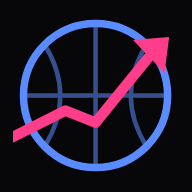
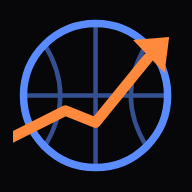
Second brand colour: back to the original orange (replaces pink)
Claude-Session: https://claude.ai/code/session_01JWQRVUUckvJmykKpyPb8i6

Changed region(s): [[0.0625, 0.1875, 0.9062, 0.75]]

diff --git a/index.html b/index.html
@@ -25,7 +25,7 @@
     --cds-surface-popover: #0E0E13; --cds-border: #35353F; --cds-shadow-popover: 0 8px 24px rgba(0,0,0,.4); --cds-text-secondary: #A6A6B2;
     --cds-chart-grid: #22222A; --cds-chart-muted: #6E6E7A; --cds-chart-reference: #4A4A55;
     --color-fg: #F2F2F5; --color-fg-muted: #A6A6B2; --color-bg: #0B0B10; --color-panel: #141419; --color-border-line: #25252D;
-    --color-ok: #5B8CFF; --color-bad: #FF5C9E; --color-warn: #FFA8CB;
+    --color-ok: #5B8CFF; --color-bad: #FF9A57; --color-warn: #FFC79E;
     color-scheme: dark;
   }
   html, body { margin: 0; background: #050507; color: #F2F2F5; }
@@ -61,7 +61,7 @@ window.dash = (() => {
   return {
     data, calc: (id, o) => { calcs[id] = o; }, loader: () => {},
     onData: (fn) => { subs.push(fn); try { fn(); } catch (e) { console.error(e); } },
-    colors: ['#5B8CFF', '#FF3D8B', '#4FD1C5', '#F6C343', '#C792EA', '#FF6B9A', '#9AE66E', '#B0BEC5'],
+    colors: ['#5B8CFF', '#FF8A3D', '#4FD1C5', '#F6C343', '#C792EA', '#FF6B9A', '#9AE66E', '#B0BEC5'],
     setLink: (n) => { try { history.replaceState(null, '', '#' + n); } catch (e) {} },
     params: () => ({}), setParams: () => {}, resetParams: () => {}, refresh: load
   };
@@ -103,8 +103,8 @@ window.dash = (() => {
   .cp-news { display: flex; flex-direction: column; gap: 6px; }
   .cp-news-i { display: grid; grid-template-columns: 3.4rem 1fr; gap: 10px; padding: 8px 12px; border-radius: 8px; background: rgba(255,255,255,.04); font-size: .92rem; }
   .cp-news-i time { color: var(--color-fg-muted); font-variant-numeric: tabular-nums; }
-  .cp-news-i .imp { color: #FF3D8B; margin-top: 2px; }
-  .cp-news-i.bad b { color: #FF3D8B; }
+  .cp-news-i .imp { color: #FF8A3D; margin-top: 2px; }
+  .cp-news-i.bad b { color: #FF8A3D; }
   .mb-table tr.pass td { color: var(--color-fg-muted); }
   .mb-table .side { border-left: 1px solid var(--color-border-line); }
   .pill { display: inline-block; padding: 0 var(--cds-pad-sm); border-radius: 999px; border: 1px solid currentColor; font-size: var(--cds-font-size-caption); white-space: nowrap; }
@@ -161,9 +161,9 @@ window.dash = (() => {
 
   /* ===== A+B look: dark navy, orange accent, condensed caps headings; blue = value, orange = overpriced ===== */
   .mb { --color-fg: #F2F2F5; --color-fg-muted: #A6A6B2; --color-bg: #0B0B10; --color-panel: #141419; --color-border-line: #25252D;
-        --color-ok: #5B8CFF; --color-bad: #FF5C9E; --color-warn: #FFA8CB;
+        --color-ok: #5B8CFF; --color-bad: #FF9A57; --color-warn: #FFC79E;
         --cds-chart-grid: #22222A; --cds-chart-muted: #6E6E7A; --cds-chart-reference: #4A4A55;
-        --cp-accent: #5B8CFF; --cp-ink: #0B0B10; --cp-good-bg: #16234A; --cp-good-fg: #CFDCFF; --cp-bad-bg: #3A1226; --cp-bad-fg: #FFA8CB;
+        --cp-accent: #5B8CFF; --cp-ink: #0B0B10; --cp-good-bg: #16234A; --cp-good-fg: #CFDCFF; --cp-bad-bg: #3A2512; --cp-bad-fg: #FFC79E;
         --cp-head: var(--font-anthropic-sans);
         background: #0B0B10; color: var(--color-fg); border-radius: 18px; padding: 0 0 32px 0; gap: 28px; max-width: 1240px; }
   .mb a { color: #5B8CFF; }
@@ -267,7 +267,7 @@ window.dash = (() => {
   .cp-bs-price input { width: 5.2rem; font-weight: 700; }
   .cp-bs-price .cp-bs-txt { margin-left: 0; min-height: 38px; }
   .cp-bs-all { display: flex; align-items: center; gap: 10px; font-size: .85rem; color: #D0D0D8; }
-  .cp-bs-warn { font-size: .82rem; color: #FFA8CB; background: #3A1226; border-radius: 10px; padding: 8px 12px; }
+  .cp-bs-warn { font-size: .82rem; color: #FFC79E; background: #3A2512; border-radius: 10px; padding: 8px 12px; }
   .cp-bs-mult { display: flex; align-items: baseline; gap: 8px; font-size: .85rem; color: #A6A6B2; }
   .cp-bs-mult b { margin-left: auto; font-family: ui-monospace, SFMono-Regular, Menlo, Consolas, monospace; font-size: 1.4rem; color: #FFFFFF; }
   .cp-bs-foot { border-top: 1px solid #22222A; background: #0E0E13; padding: 10px 16px 14px; display: grid; grid-template-columns: 1fr auto; gap: 4px 12px; }
@@ -332,7 +332,7 @@ window.dash = (() => {
   .cp-bet-l { flex: 1; min-width: 0; }
   .cp-bet-p { font-weight: 700; font-size: .98rem; line-height: 1.25; overflow-wrap: anywhere; }
   .cp-bet-s { font-size: .78rem; color: #A6A6B2; margin-top: 2px; }
-  .cp-chip { display: inline-block; font-size: .7rem; font-weight: 700; padding: 1px 7px; border-radius: 999px; background: #2A1020; color: #FF8FBF; vertical-align: 1px; }
+  .cp-chip { display: inline-block; font-size: .7rem; font-weight: 700; padding: 1px 7px; border-radius: 999px; background: #2A2215; color: #FFB37F; vertical-align: 1px; }
   .cp-chip.dim { background: #22222A; color: #A6A6B2; }
   .cp-bet-o { text-align: right; line-height: 1.1; }
   .cp-bet-o b { display: block; font-family: ui-monospace, SFMono-Regular, Menlo, Consolas, monospace; font-size: 1.15rem; color: #FFFFFF; }
@@ -362,8 +362,8 @@ window.dash = (() => {
   .cp-toast { position: fixed; bottom: 24px; left: 50%; transform: translateX(-50%); background: var(--cp-accent); color: var(--cp-ink); font-weight: 700; padding: 10px 16px; border-radius: 10px; z-index: 5; }
   @media (max-width: 640px) { .mb-sec, .cp-panel > * { padding-inline: 14px; } .cp-multi { margin-inline: 14px; } .cp-bar { padding-inline: 14px; } .cp-upd { margin-left: 0; width: 100%; } .cp-nums { margin-left: 0; } .cp-pick { font-size: 1.3rem; } }
 
-  /* ===== neon court (5 Nov 2026, blue from 6 Nov): electric blue + pink on near-black, Unbounded headings ===== */
-  .mb { --cp-head: 'Unbounded', var(--font-anthropic-sans); --cp-pink: #FF3D8B; }
+  /* ===== neon court (5 Nov 2026, blue from 6 Nov): electric blue + orange on near-black, Unbounded headings ===== */
+  .mb { --cp-head: 'Unbounded', var(--font-anthropic-sans); --cp-pink: #FF8A3D; }
   .mb-h2, .cp-h { font-size: 1.3rem; letter-spacing: 0; font-weight: 800; }
   .cp-brand { font-size: 1.15rem; letter-spacing: 0; text-transform: uppercase; display: flex; align-items: center; flex-wrap: wrap; gap: 0; }
   .cp-brand b { color: var(--cp-accent); font-weight: inherit; }
@@ -374,12 +374,12 @@ window.dash = (() => {
   .cp-tab[aria-selected="true"] { color: var(--cp-accent); }
   .cp-tab, .cp-dsw button { text-transform: uppercase; letter-spacing: .04em; font-family: var(--cp-head); font-weight: 600; font-size: .8rem; }
   .cp-bs-bar { text-transform: none; }
-  .pill.best { color: var(--cp-accent); border-color: var(--cp-accent); font-weight: 700; } .pill.val { color: #FF3D8B; }
+  .pill.best { color: var(--cp-accent); border-color: var(--cp-accent); font-weight: 700; } .pill.val { color: #FF8A3D; }
 </style>
 
 <div class="mb">
   <header class="cp-bar">
-    <div class="cp-brand" id="top"><svg width="28" height="28" viewBox="-110 -110 220 220" aria-hidden="true" style="vertical-align:-7px;margin-right:10px"><circle r="96" fill="none" stroke="#5B8CFF" stroke-width="12"/><g fill="none" stroke="#5B8CFF" stroke-width="7" stroke-linecap="round" opacity="0.55"><path d="M0 -96V96"/><path d="M-96 0H96"/><path d="M-68 -68Q-26 0 -68 68"/><path d="M68 -68Q26 0 68 68"/></g><polyline points="-120,60 -40,20 0,36 70,-50" fill="none" stroke="#FF3D8B" stroke-width="16" stroke-linecap="round" stroke-linejoin="round"/><polygon points="50,-74 98,-78 92,-30" fill="#FF3D8B"/></svg>Claudio<b>Punts</b><span class="cp-sport" role="group" aria-label="Sport"><button type="button" data-sport="nba" aria-pressed="true">NBA</button><button type="button" data-sport="nfl" aria-pressed="false">NFL</button></span></div>
+    <div class="cp-brand" id="top"><svg width="28" height="28" viewBox="-110 -110 220 220" aria-hidden="true" style="vertical-align:-7px;margin-right:10px"><circle r="96" fill="none" stroke="#5B8CFF" stroke-width="12"/><g fill="none" stroke="#5B8CFF" stroke-width="7" stroke-linecap="round" opacity="0.55"><path d="M0 -96V96"/><path d="M-96 0H96"/><path d="M-68 -68Q-26 0 -68 68"/><path d="M68 -68Q26 0 68 68"/></g><polyline points="-120,60 -40,20 0,36 70,-50" fill="none" stroke="#FF8A3D" stroke-width="16" stroke-linecap="round" stroke-linejoin="round"/><polygon points="50,-74 98,-78 92,-30" fill="#FF8A3D"/></svg>Claudio<b>Punts</b><span class="cp-sport" role="group" aria-label="Sport"><button type="button" data-sport="nba" aria-pressed="true">NBA</button><button type="button" data-sport="nfl" aria-pressed="false">NFL</button></span></div>
     <div class="cp-tabs" role="tablist" aria-label="Sections">
       <button type="button" class="cp-tab" role="tab" data-tab="today" aria-selected="true">Today</button>
       <button type="button" class="cp-tab" role="tab" data-tab="tomorrow" aria-selected="false" hidden>Tomorrow</button>
@@ -1345,7 +1345,7 @@ window.dash = (() => {
     } else {
       mm('#m80-odds', 'odds').textContent = Number(m.odds).toFixed(2);
       mm('#m80-prob', 'prob').textContent = m.prob + '%';
-      const ev = mm('#m80-ev', 'ev_pct'); ev.textContent = (Number(m.ev_pct) > 0 ? '+' : '') + m.ev_pct + '%'; ev.style.color = Number(m.ev_pct) > 0 ? '#5B8CFF' : '#FF8FBF';
+      const ev = mm('#m80-ev', 'ev_pct'); ev.textContent = (Number(m.ev_pct) > 0 ? '+' : '') + m.ev_pct + '%'; ev.style.color = Number(m.ev_pct) > 0 ? '#5B8CFF' : '#FFB37F';
       $('#m80-sub').textContent = `Every leg 80%+ · one per game · all at ${m.book} · ${m.stake_pct}u`;
       $('#m80-copy').hidden = false;
       const mitem = { pick: m.pick, odds: Number(m.odds), book: m.book, game: m.game, prob: Number(m.prob), stake: Number(m.stake_pct) || 0, cat: '80% multi' };

diff --git a/sw.js b/sw.js
@@ -1,5 +1,5 @@
 /* ClaudioPunts app: network first, so the board is always the latest when online; the last copy opens offline. */
-const CACHE = 'claudiopunts-v4';
+const CACHE = 'claudiopunts-v5';
 const SHELL = ['./', './index.html', './manifest.webmanifest', './icons/icon-192.png', './icons/apple-touch-icon.png'];
 self.addEventListener('install', e => { e.waitUntil(caches.open(CACHE).then(c => c.addAll(SHELL)).then(() => self.skipWaiting())); });
 self.addEventListener('activate', e => {
